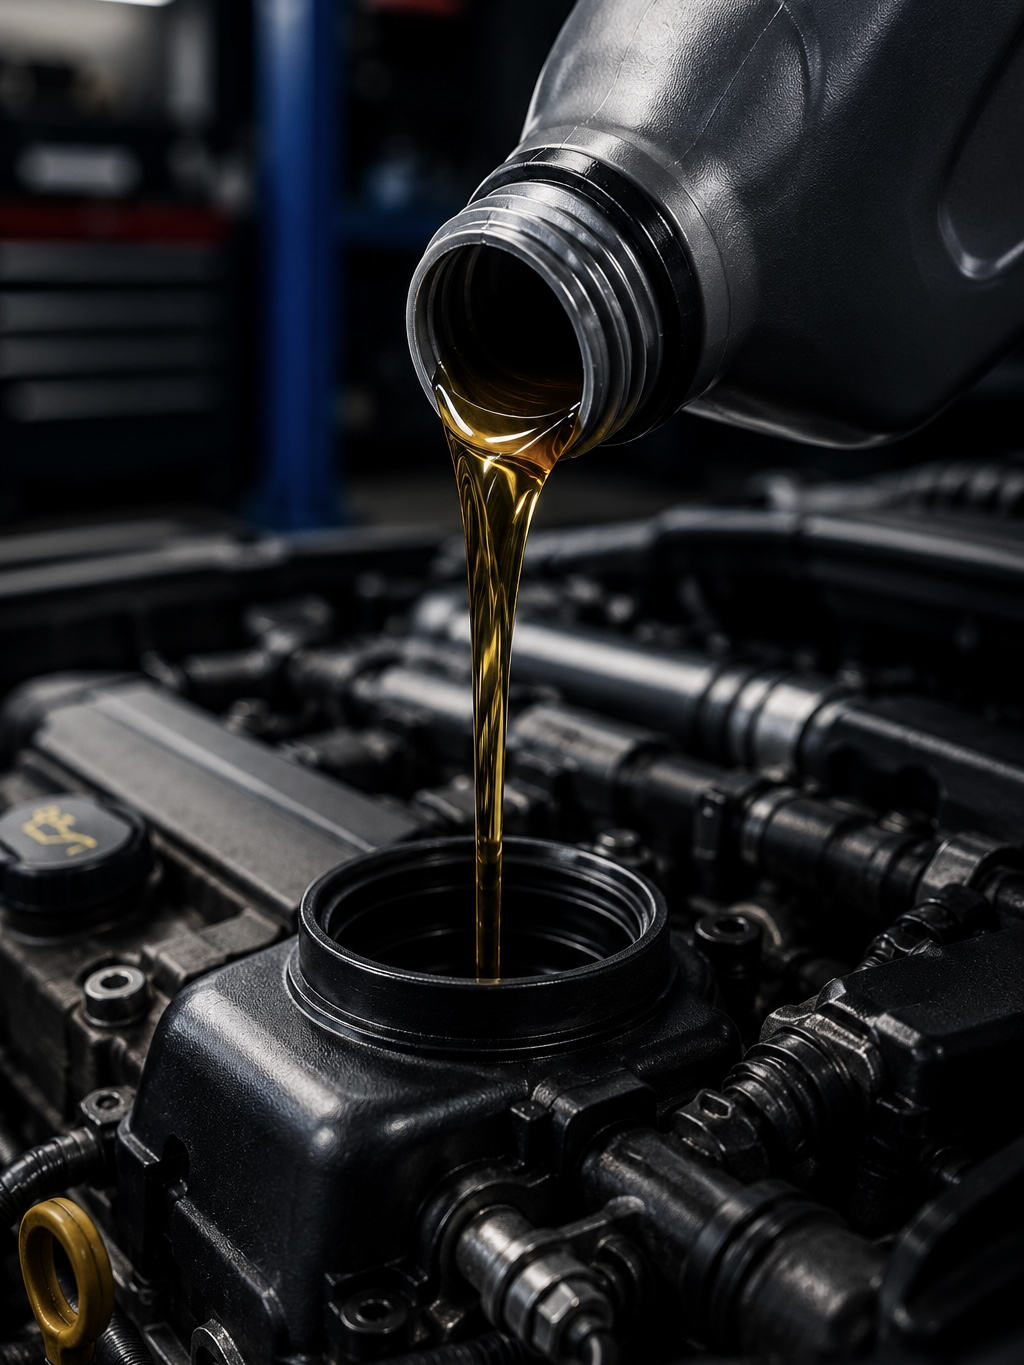
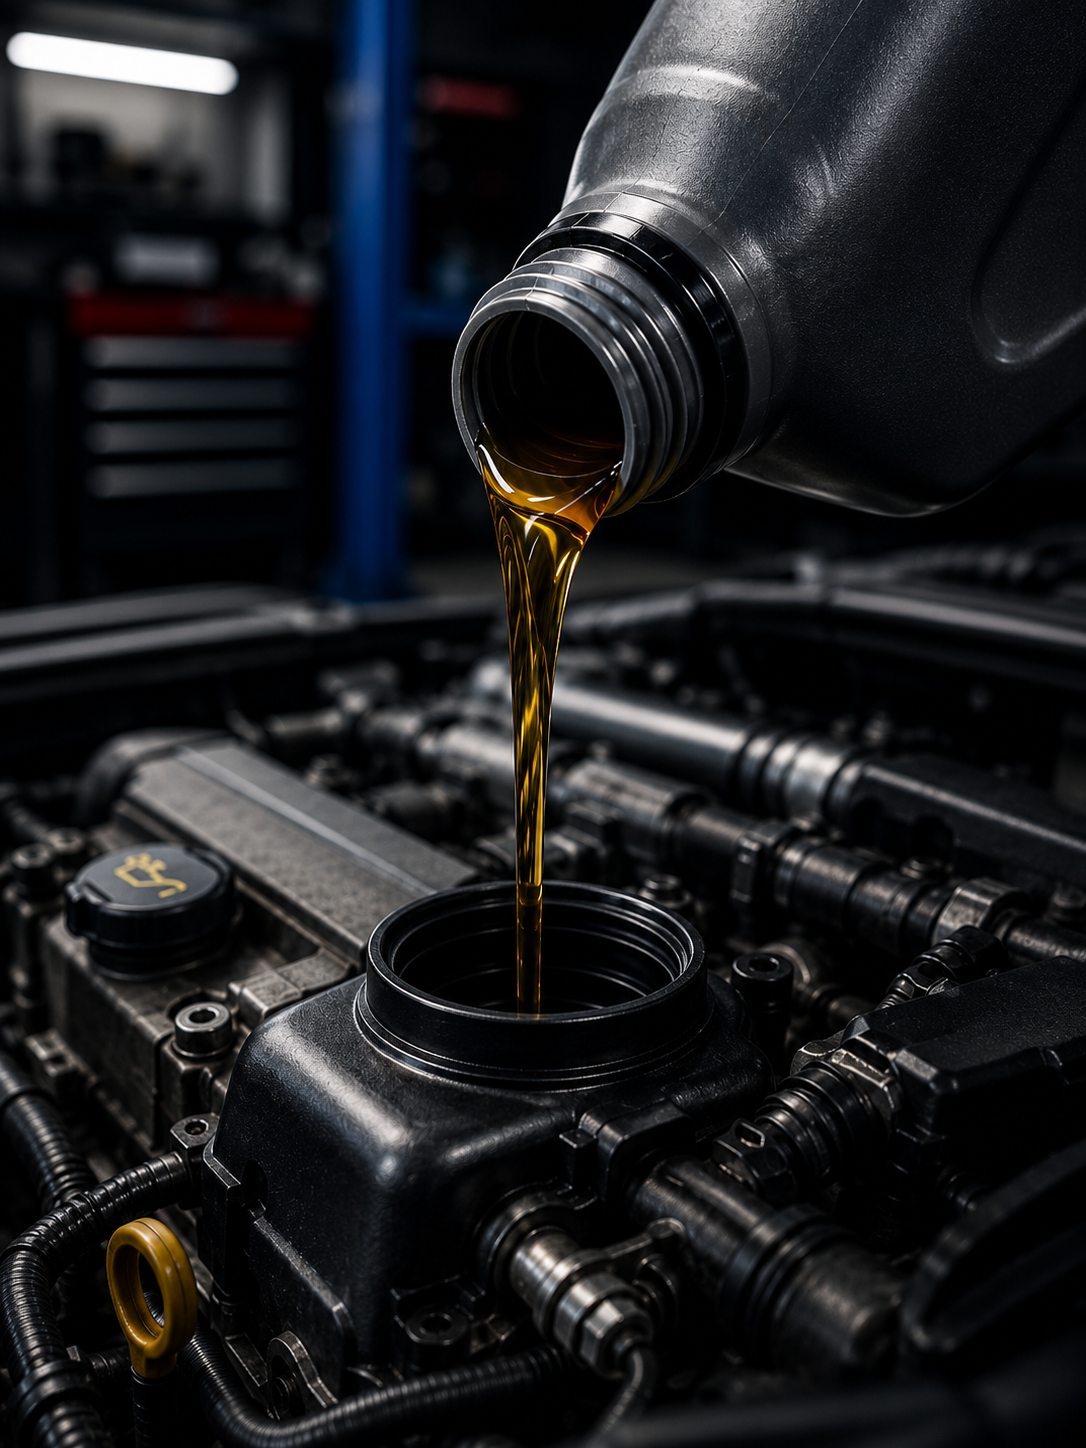
cards

diff --git a/index.html b/index.html
@@ -364,7 +364,7 @@
         </div>
         <div class = "container">
             <div class = "row">
-                <div class = "col-md-4">
+                <div class = "col-md-3">
                     <div class = "repair_box">
                         <img class = "repair_images" src="pictures/brakeIllustration.PNG" alt="brake-repair-image">
                         <div style = "display: block;">
@@ -376,14 +376,62 @@
                             <a class = "repair_card_learn">Learn more <i class="fa-solid fa-arrow-right-long"></i></a>
                         </div>
                     </div>
-                    <div class = "repair_box">
-                        <img class = "repair_images" src="pictures/oilIllustration.PNG" alt="brake-repair-image">
+                    <div class = "repair_box" style = "margin-top: 2rem !important;">
+                        <img class = "repair_images" src="pictures/oilIllustration.PNG" alt="oil-image">
                         <div style = "display: block;">
                             <div style = "display: flex; margin-top: 0.6rem;">
-                                <img class = "repair_icons" src="pictures/oilPic.svg" alt="oil-icon">
+                                <img class = "repair_icons" style = "margin-left: 1.2rem !important;" src="pictures/oilPic.svg" alt="oil-icon">
                                 <span class = "repair_card_title">Oil Services</span>
                             </div>
                             <p class = "repair_card_desc">Oil changes, filter<br>replacement and<br>fluid top-ups to keep<br>your engine healthy.</p>
+                            <a class = "repair_card_learn">Learn more <i class="fa-solid fa-arrow-right-long"></i></a>
+                        </div>
+                    </div>
+                </div>
+                <div class = "col-md-3" style = "margin-left: 8.5rem;">
+                    <div class = "repair_box">
+                        <img class = "repair_images" src="pictures/diagnosticsIllustration.PNG" alt="diagnostics-image">
+                        <div style = "display: block;">
+                            <div style = "display: flex; margin-top: 0.6rem;">
+                                <img class = "repair_icons" style = "margin-left: 0.8rem !important;" src="pictures/checkEnginePic.svg" alt="check-engine-icon">
+                                <span class = "repair_card_title">Diagnostics</span>
+                            </div>
+                            <p class = "repair_card_desc">Advanced computer<br>diagnostics to identify<br>issues quickly and<br>accurately.</p>
+                            <a class = "repair_card_learn">Learn more <i class="fa-solid fa-arrow-right-long"></i></a>
+                        </div>
+                    </div>
+                    <div class = "repair_box" style = "margin-top: 2rem !important;">
+                        <img class = "repair_images" src="pictures/batteryIllustration.PNG" alt="battery-image">
+                        <div style = "display: block;">
+                            <div style = "display: flex; margin-top: 0.6rem;">
+                                <img class = "repair_icons" style = "margin-left: 1.2rem !important;" src="pictures/carBatteryPic.svg" alt="battery-icon">
+                                <span class = "repair_card_title">Electrical</span>
+                            </div>
+                            <p class = "repair_card_desc">Battery testing, alternator<br>service, lighting repairs<br>and electrical system<br>diagnostics.</p>
+                            <a class = "repair_card_learn">Learn more <i class="fa-solid fa-arrow-right-long"></i></a>
+                        </div>
+                    </div>
+                </div>
+                <div class = "col-md-3" style = "margin-left: 8.5rem;">
+                    <div class = "repair_box">
+                        <img class = "repair_images" src="pictures/suspensionIllustration.PNG" alt="suspension-image">
+                        <div style = "display: block;">
+                            <div style = "display: flex; margin-top: 0.6rem;">
+                                <img class = "repair_icons" style = "margin-left: 1rem !important;" src="pictures/suspensionPic.svg" alt="suspension-icon">
+                                <span class = "repair_card_title">Suspension</span>
+                            </div>
+                            <p class = "repair_card_desc">Strut and shock<br>replacement, alignment,<br>and suspension system repairs.</p>
+                            <a class = "repair_card_learn">Learn more <i class="fa-solid fa-arrow-right-long"></i></a>
+                        </div>
+                    </div>
+                    <div class = "repair_box" style = "margin-top: 2rem !important;">
+                        <img class = "repair_images" src="pictures/repairIllustration.PNG" alt="repair-image">
+                        <div style = "display: block;">
+                            <div style = "display: flex; margin-top: 0.6rem;">
+                                <img class = "repair_icons" style = "margin-left: 0rem !important;" src="pictures/repairPic.svg" alt="repair-icon">
+                                <span class = "repair_card_title" style = "margin-left: 0rem !important;">General Repairs</span>
+                            </div>
+                            <p class = "repair_card_desc">From small fixes to<br>important replacements,<br>we handle it with care<br>and expertise.</p>
                             <a class = "repair_card_learn">Learn more <i class="fa-solid fa-arrow-right-long"></i></a>
                         </div>
                     </div>

diff --git a/styles/index_style.css b/styles/index_style.css
@@ -663,8 +663,8 @@
 }
 
 .repair_images {
-    height: 16rem;
-    width: 13rem;
+    height: 15rem;
+    width: 11rem;
     border-radius: 8px 0 0 8px;
 }
 
@@ -679,8 +679,8 @@
     background-color: white;
     box-shadow: 0 4px 6px rgba(0, 0, 0, 0.2);
     border-radius: 8px;
-    width: 27.5rem;
-    height: 16rem;
+    width: 26.5rem;
+    height: 15rem;
     margin-top: 1rem;
 }
 
